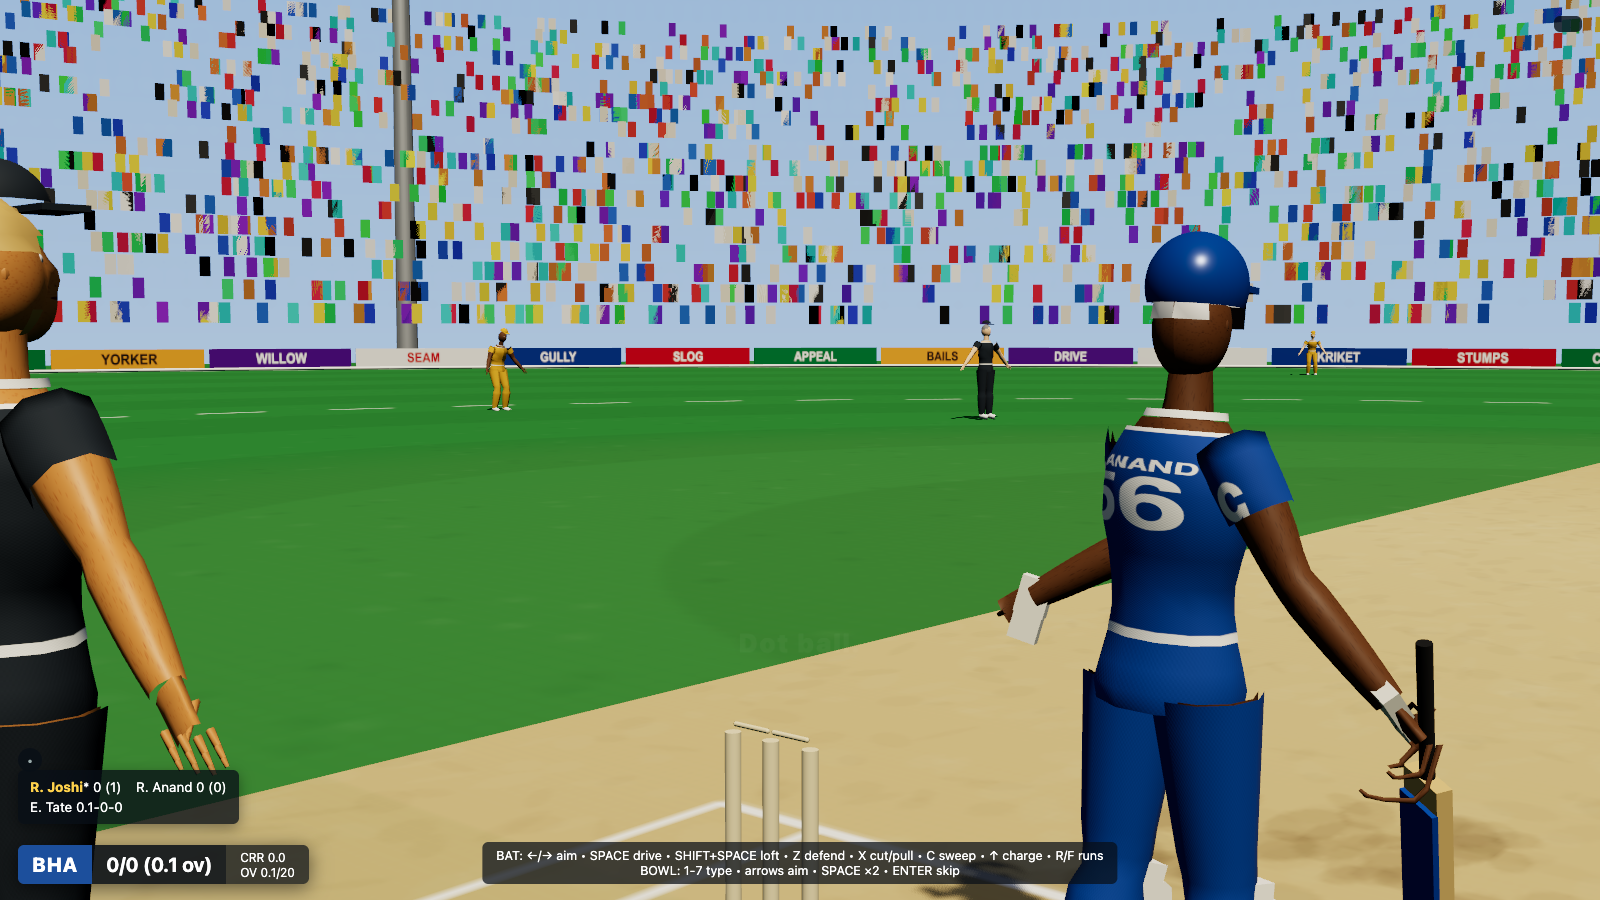
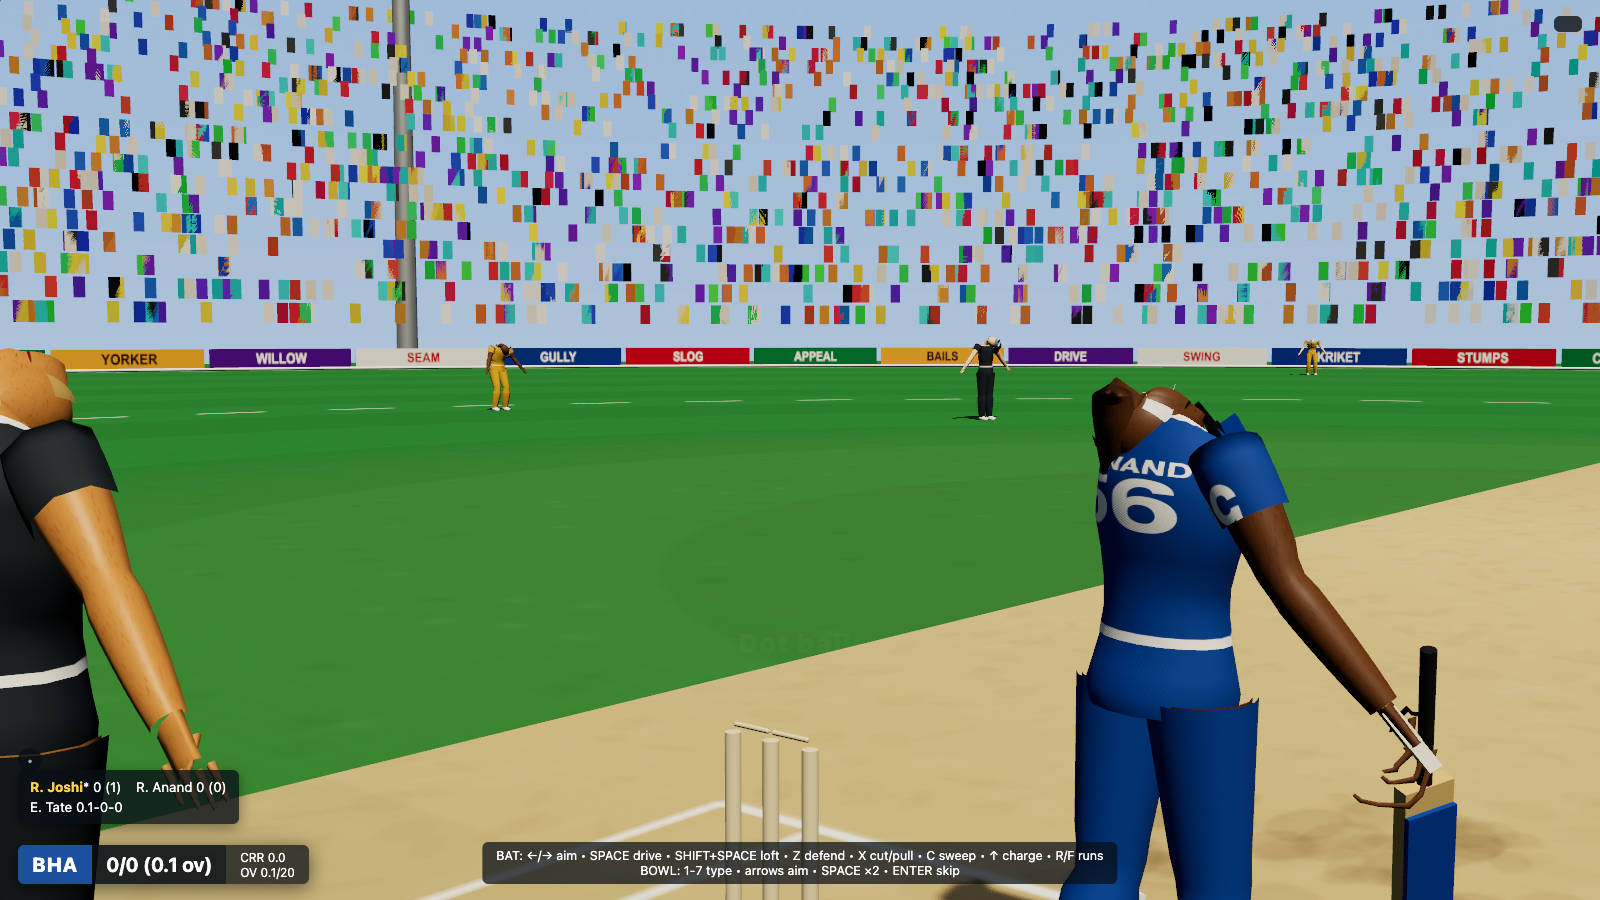
Human polish: helmet fit, keeper faces play, hero-tier batters, long sleeves for TEST, face QA probes

Changed region(s): [[0.0, 0.0, 1.0, 1.0], [0.5938, 0.4356, 0.625, 0.4667]]

diff --git a/src/entities/HumanCricketer.ts b/src/entities/HumanCricketer.ts
@@ -30,19 +30,23 @@ export class HumanCricketer {
   readonly human: Human;
   readonly root: THREE.Group;
   readonly height: number;
+  static tierOverride: 'hero' | 'gameplay' | null = null;
   private celebrateMode = '';
   private ballTarget: THREE.Vector3 | null = null;
   private batObj: THREE.Group | null = null;
   private aimYaw = 0;
 
-  constructor(opts: CricketerOptions & { seed?: number; surname?: string; number?: number }) {
+  constructor(opts: CricketerOptions & { seed?: number; surname?: string; number?: number; longSleeve?: boolean }) {
     const seed = opts.seed ?? 1;
     const kit: TeamKit = {
       primary: opts.shirt, secondary: opts.trousers, accent: 0xf5f5f0,
       surname: opts.surname, number: opts.number,
     };
     const skinIdx = nearestSkinIndex(opts.skin);
-    this.human = createAthlete(seed, { tier: 'gameplay' });
+    this.human = createAthlete(seed, {
+      tier: HumanCricketer.tierOverride ?? (opts.withBat ? 'hero' : 'gameplay'),
+      sleeve: opts.longSleeve ? 'long' : 'short',
+    });
     this.human.dna.skinTone = skinIdx; // note: DNA skinTone is baked at build; kept for report fidelity
     this.human.setTeamKit(kit);
     // height parity with the old scale option
@@ -62,9 +66,9 @@ export class HumanCricketer {
       this.human.equip(gloves.right, 'hand_r', { pos: new THREE.Vector3(-0.03, -0.035, 0), rot: new THREE.Euler(0, 0, -0.785) });
     }
     if (opts.helmet != null) {
-      this.human.equip(makeHelmet(opts.helmet), 'socket_head', { pos: new THREE.Vector3(0, 0.055, 0.005) });
+      this.human.equip(makeHelmet(opts.helmet), 'socket_head', { pos: new THREE.Vector3(0, 0.012, 0.004) });
     } else if (opts.cap != null) {
-      this.human.equip(makeCap(opts.cap), 'socket_head', { pos: new THREE.Vector3(0, 0.075, 0.002) });
+      this.human.equip(makeCap(opts.cap), 'socket_head', { pos: new THREE.Vector3(0, 0.030, 0.004) });
     }
     this.human.enableGroundAlign(() => 0);
   }

diff --git a/src/gameplay/MatchController.ts b/src/gameplay/MatchController.ts
@@ -215,6 +215,7 @@ export class MatchController {
         scale: 0.97 + (Math.abs(hashCode(spec.id)) % 100) / 1400,
         seed: Math.abs(hashCode(spec.id)) || 7,
         surname: spec.shortName,
+        longSleeve: this.setup.format === 'TEST',
         number: (Math.abs(hashCode(spec.id)) % 97) + 1,
       });
     this.strikerEnt = mkBatter(inn.striker().spec);
@@ -236,6 +237,7 @@ export class MatchController {
     });
     this.keeper = makeFielder(keeperSpec, keeperCricketer, 'keeper', 0.6, STRIKER_STUMPS_Z + 1.9);
     this.keeper.cricketer.root.position.copy(this.keeper.home);
+    this.keeper.cricketer.faceToward(0.4, STRIKER_STUMPS_Z - 1);
     this.ents.add(keeperCricketer.root);
     this.humanEnts.push(keeperCricketer);
 
